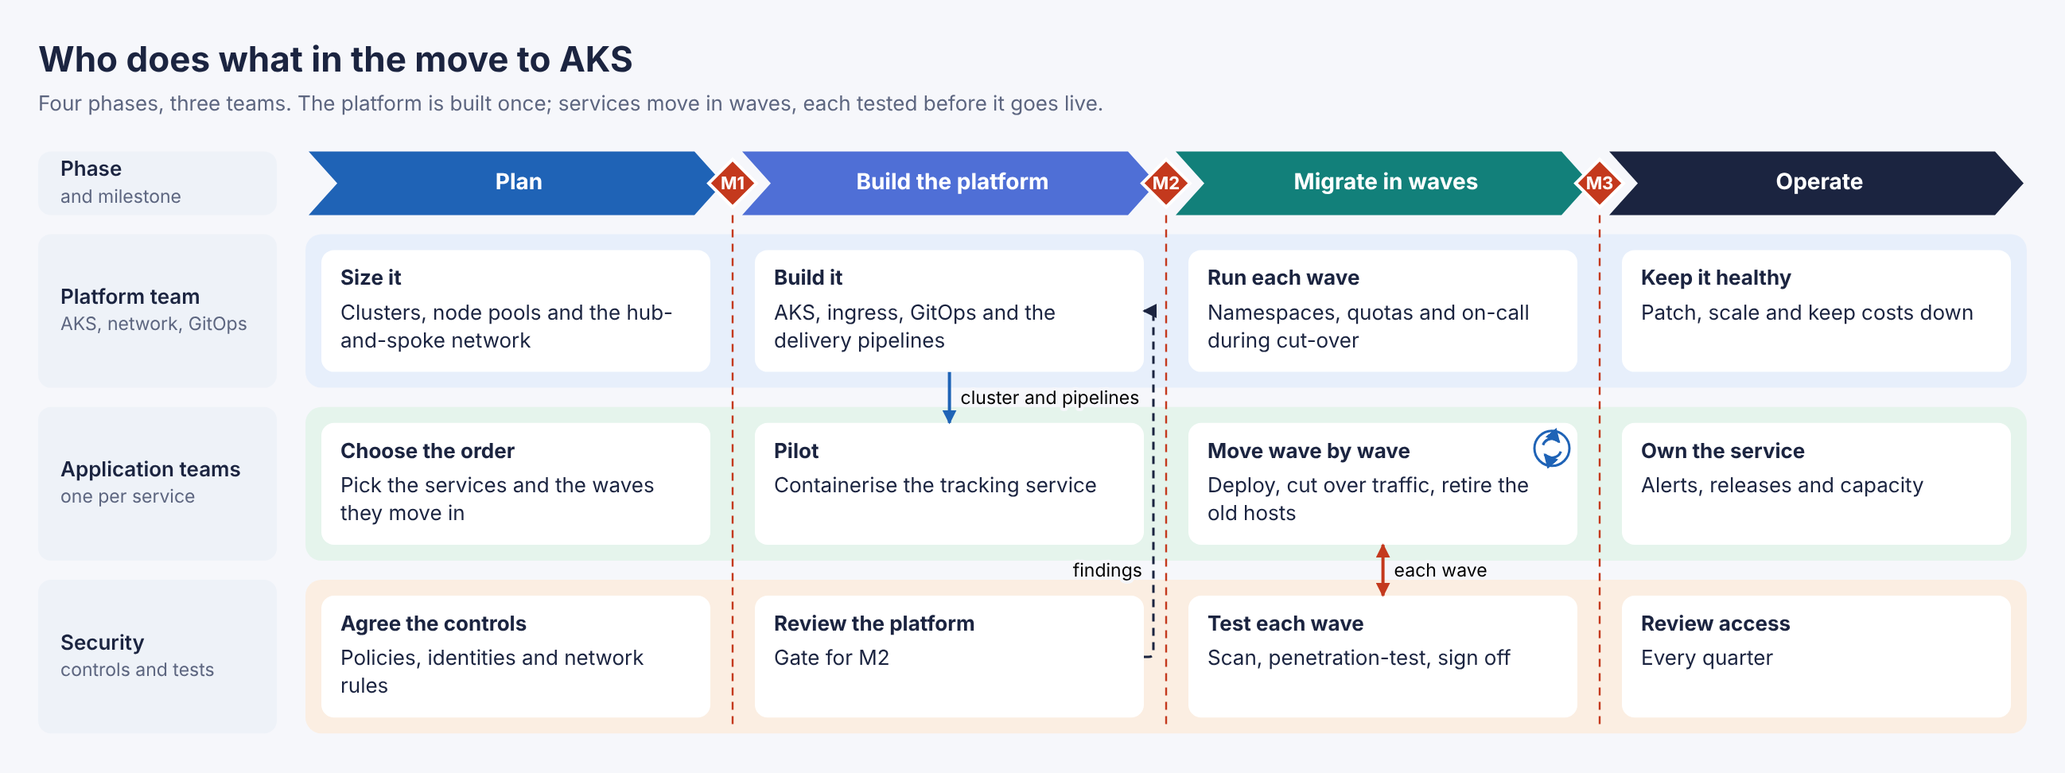
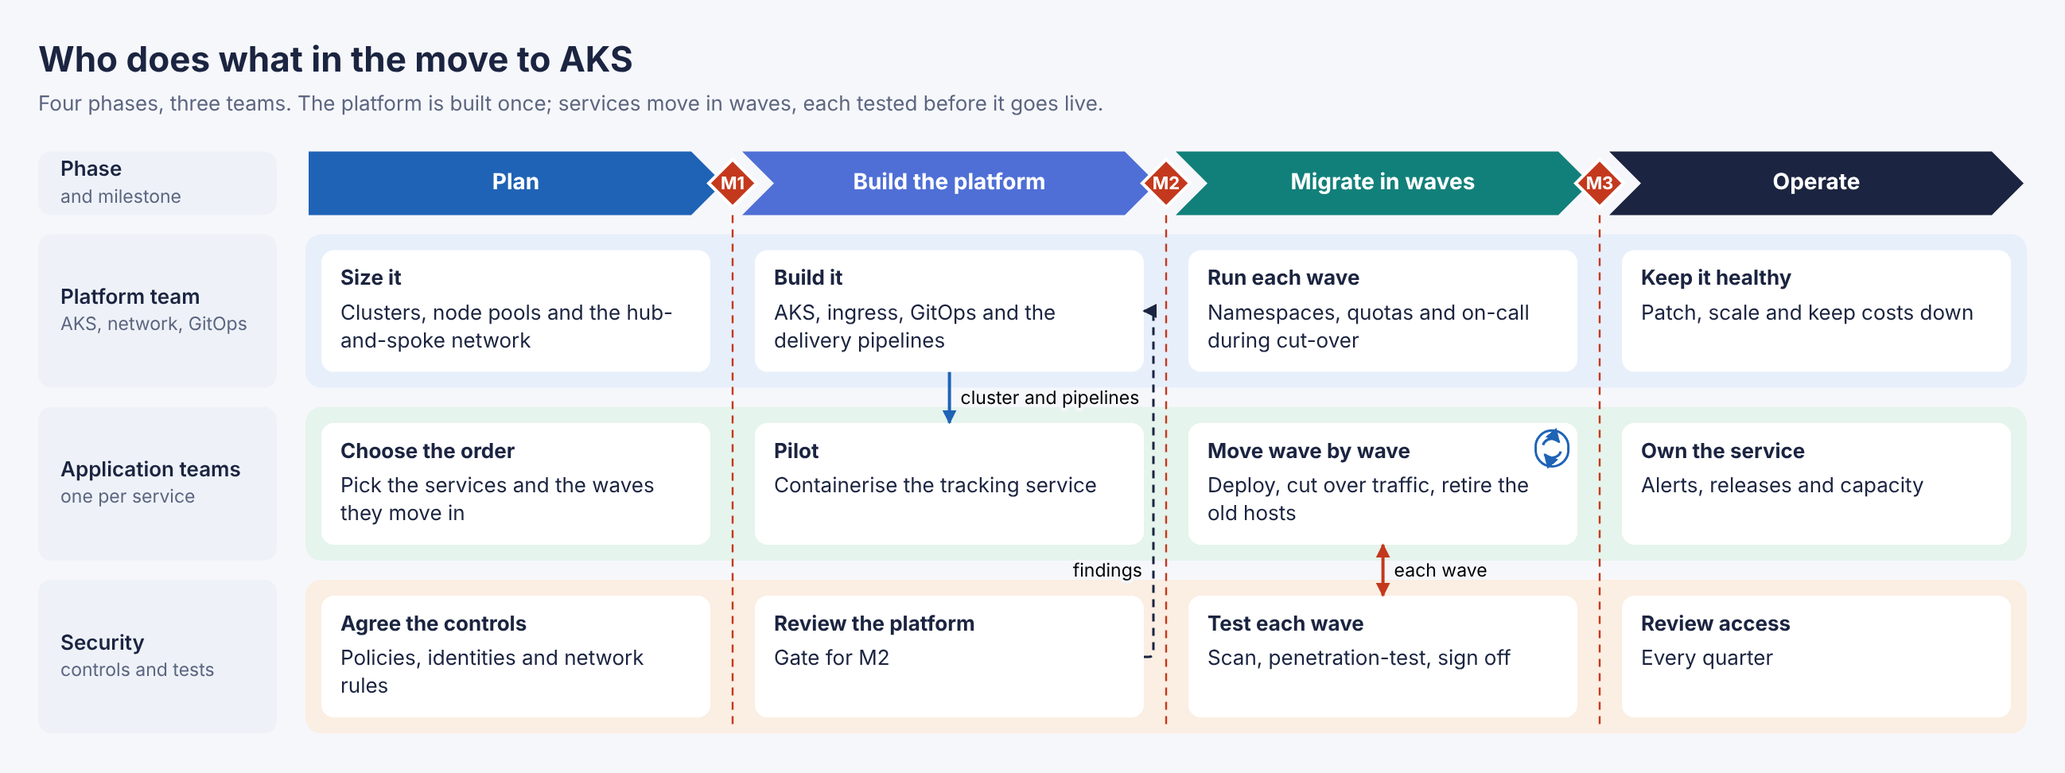
Page mode: a shape library
shape="…" on any element draws it as that shape: the browser lays it
out as a box, and its background and border become the shape's fill and
outline. Bases: rect, rounded, stadium, ellipse, circle, diamond,
hexagon, triangle, parallelogram, trapezoid, chevron, chevron-start,
block arrows, cylinder (and horizontal), document(s), note, callout,
cloud, manual-input, predefined, delay, off-page; BPMN task, subprocess,
start, event, end and gateway. Markers follow the base: gateway
exclusive|parallel|inclusive, event timer|message|signal|error,
end terminate, task loop|multi.

Defaults are zero-specificity CSS (an outline, centred content, BPMN
sizes for events and gateways). Round shapes take lines at the middle
of a side. The script's shape() uses the same library. The PoC's
clip-path classes .chevron and .diamond are gone.

diff --git a/skills/graphally/scripts/lib/shapes.js b/skills/graphally/scripts/lib/shapes.js
@@ -1,0 +1,199 @@
+// Copyright (c) 2026 Kamil Wilczyński (kwilcz). graphally Use-Only License: see LICENSE.
+// Shapes for page mode: <div shape="cylinder">, <i shape="gateway parallel">, and the
+// script's shape(). A shape is a base and optional markers. The base is a path over the
+// element's box; the browser lays the element out as a box, and the element's background
+// and border become the shape's fill and outline. Markers are drawn inside: a gateway's ×,
+// an event's clock or envelope, a task's loop. BPMN conventions follow the classic process
+// layout (render.js): thin circle start, thick end, double intermediate.
+
+const f = n => String(Math.round(n * 10) / 10);
+const poly = pts => `M${pts.map(([x, y]) => `${f(x)},${f(y)}`).join(' L')} Z`;
+const circle = (cx, cy, r) => `M${f(cx - r)},${f(cy)} A${f(r)},${f(r)} 0 1 1 ${f(cx + r)},${f(cy)} A${f(r)},${f(r)} 0 1 1 ${f(cx - r)},${f(cy)} Z`;
+
+// Block arrows: drawn along u (length) and v (width), then turned to their direction.
+const arrow = dir => ({ x, y, w, h }) => {
+  const along = dir === 'up' || dir === 'down', len = along ? h : w, wid = along ? w : h;
+  // Upright arrows hold their text across the shaft: a wider shaft, a shorter head.
+  const t = wid * (along ? 0.64 : 0.5), head = Math.min(wid * (along ? 0.5 : 0.9), len * (along ? 0.38 : 0.45)), a = (wid - t) / 2;
+  const pts = [[0, a], [len - head, a], [len - head, 0], [len, wid / 2], [len - head, wid], [len - head, a + t], [0, a + t]];
+  const map = ([u, v]) => (dir === 'right' ? [x + u, y + v] : dir === 'left' ? [x + len - u, y + v] : dir === 'down' ? [x + v, y + u] : [x + v, y + len - u]);
+  return poly(pts.map(map));
+};
+const stadium = ({ x, y, w, h }) => {
+  const r = Math.min(w, h) / 2;
+  return w >= h
+    ? `M${f(x + r)},${f(y)} H${f(x + w - r)} A${f(r)},${f(r)} 0 0 1 ${f(x + w - r)},${f(y + h)} H${f(x + r)} A${f(r)},${f(r)} 0 0 1 ${f(x + r)},${f(y)} Z`
+    : `M${f(x)},${f(y + r)} A${f(r)},${f(r)} 0 0 1 ${f(x + w)},${f(y + r)} V${f(y + h - r)} A${f(r)},${f(r)} 0 0 1 ${f(x)},${f(y + h - r)} Z`;
+};
+const roundRect = ({ x, y, w, h }, r) => {
+  r = Math.min(r, w / 2, h / 2);
+  return `M${f(x + r)},${f(y)} H${f(x + w - r)} Q${f(x + w)},${f(y)} ${f(x + w)},${f(y + r)} V${f(y + h - r)} Q${f(x + w)},${f(y + h)} ${f(x + w - r)},${f(y + h)} H${f(x + r)} Q${f(x)},${f(y + h)} ${f(x)},${f(y + h - r)} V${f(y + r)} Q${f(x)},${f(y)} ${f(x + r)},${f(y)} Z`;
+};
+const doc = ({ x, y, w, h }) => {
+  const a = Math.min(h * 0.12, 10);
+  return `M${f(x)},${f(y)} H${f(x + w)} V${f(y + h - a)} C${f(x + w * 0.75)},${f(y + h - 3 * a)} ${f(x + w * 0.25)},${f(y + h + a)} ${f(x)},${f(y + h - a)} Z`;
+};
+const ry = ({ w, h }) => Math.min(h * 0.12, w * 0.2, 10);
+const fold = ({ w, h }) => Math.min(14, w * 0.25, h * 0.3);
+
+// path(box) -> d. under(box) -> paths drawn behind, in the same fill. lines(box) -> strokes
+// over the fill (a cylinder's rim). round: lines meet it at the middle of a side.
+const BASES = {
+  rect: { path: b => roundRect(b, 0) },
+  rounded: { path: b => roundRect(b, 10) },
+  stadium: { path: stadium },
+  ellipse: { path: ({ x, y, w, h }) => `M${f(x)},${f(y + h / 2)} A${f(w / 2)},${f(h / 2)} 0 1 1 ${f(x + w)},${f(y + h / 2)} A${f(w / 2)},${f(h / 2)} 0 1 1 ${f(x)},${f(y + h / 2)} Z`, round: true },
+  circle: { path: ({ x, y, w, h }) => circle(x + w / 2, y + h / 2, Math.min(w, h) / 2), round: true },
+  diamond: { path: ({ x, y, w, h }) => poly([[x + w / 2, y], [x + w, y + h / 2], [x + w / 2, y + h], [x, y + h / 2]]), round: true },
+  hexagon: { path: ({ x, y, w, h }) => { const k = Math.min(h * 0.29, w / 4); return poly([[x + k, y], [x + w - k, y], [x + w, y + h / 2], [x + w - k, y + h], [x + k, y + h], [x, y + h / 2]]); } },
+  triangle: { path: ({ x, y, w, h }) => poly([[x + w / 2, y], [x + w, y + h], [x, y + h]]) },
+  parallelogram: { path: ({ x, y, w, h }) => { const k = Math.min(h * 0.35, w / 4); return poly([[x + k, y], [x + w, y], [x + w - k, y + h], [x, y + h]]); } },
+  trapezoid: { path: ({ x, y, w, h }) => { const k = Math.min(h * 0.35, w / 4); return poly([[x + k, y], [x + w - k, y], [x + w, y + h], [x, y + h]]); } },
+  chevron: { path: ({ x, y, w, h }) => { const k = Math.min(h / 2, w / 4, 20); return poly([[x, y], [x + w - k, y], [x + w, y + h / 2], [x + w - k, y + h], [x, y + h], [x + k, y + h / 2]]); } },
+  'chevron-start': { path: ({ x, y, w, h }) => { const k = Math.min(h / 2, w / 4, 20); return poly([[x, y], [x + w - k, y], [x + w, y + h / 2], [x + w - k, y + h], [x, y + h]]); } },
+  'arrow-right': { path: arrow('right') }, 'arrow-left': { path: arrow('left') },
+  'arrow-up': { path: arrow('up') }, 'arrow-down': { path: arrow('down') },
+  cylinder: {
+    path: b => { const { x, y, w, h } = b, r = ry(b); return `M${f(x)},${f(y + r)} A${f(w / 2)},${f(r)} 0 0 1 ${f(x + w)},${f(y + r)} V${f(y + h - r)} A${f(w / 2)},${f(r)} 0 0 1 ${f(x)},${f(y + h - r)} Z`; },
+    lines: b => { const { x, y, w } = b, r = ry(b); return [`M${f(x)},${f(y + r)} A${f(w / 2)},${f(r)} 0 0 0 ${f(x + w)},${f(y + r)}`]; },
+  },
+  'cylinder-h': {
+    path: b => { const { x, y, w, h } = b, r = Math.min(w * 0.12, h * 0.2, 10); return `M${f(x + r)},${f(y)} H${f(x + w - r)} A${f(r)},${f(h / 2)} 0 0 1 ${f(x + w - r)},${f(y + h)} H${f(x + r)} A${f(r)},${f(h / 2)} 0 0 1 ${f(x + r)},${f(y)} Z`; },
+    lines: b => { const { x, y, w, h } = b, r = Math.min(w * 0.12, h * 0.2, 10); return [`M${f(x + w - r)},${f(y)} A${f(r)},${f(h / 2)} 0 0 0 ${f(x + w - r)},${f(y + h)}`]; },
+  },
+  document: { path: doc },
+  documents: {
+    path: ({ x, y, w, h }) => doc({ x, y: y + 8, w: w - 8, h: h - 8 }),
+    under: ({ x, y, w, h }) => [doc({ x: x + 8, y, w: w - 8, h: h - 8 }), doc({ x: x + 4, y: y + 4, w: w - 8, h: h - 8 })],
+  },
+  note: {
+    path: b => { const { x, y, w, h } = b, k = fold(b); return poly([[x, y], [x + w - k, y], [x + w, y + k], [x + w, y + h], [x, y + h]]); },
+    lines: b => { const { x, y, w } = b, k = fold(b); return [`M${f(x + w - k)},${f(y)} V${f(y + k)} H${f(x + w)}`]; },
+  },
+  callout: {
+    path: ({ x, y, w, h }) => {
+      const t = Math.min(14, h * 0.25), bh = h - t, r = Math.min(8, bh / 2);
+      return `M${f(x + r)},${f(y)} H${f(x + w - r)} Q${f(x + w)},${f(y)} ${f(x + w)},${f(y + r)} V${f(y + bh - r)} Q${f(x + w)},${f(y + bh)} ${f(x + w - r)},${f(y + bh)} H${f(x + w * 0.34)} L${f(x + w * 0.14)},${f(y + h)} L${f(x + w * 0.2)},${f(y + bh)} H${f(x + r)} Q${f(x)},${f(y + bh)} ${f(x)},${f(y + bh - r)} V${f(y + r)} Q${f(x)},${f(y)} ${f(x + r)},${f(y)} Z`;
+    },
+  },
+  cloud: {
+    path: ({ x, y, w, h }) => {
+      const p = (u, v) => `${f(x + u * w)},${f(y + v * h)}`;
+      return `M${p(0.25, 0.88)} C${p(0.04, 0.88)} ${p(-0.01, 0.56)} ${p(0.17, 0.48)} C${p(0.12, 0.22)} ${p(0.36, 0.08)} ${p(0.5, 0.24)} C${p(0.58, 0.02)} ${p(0.9, 0.06)} ${p(0.85, 0.36)} C${p(1.03, 0.4)} ${p(1.03, 0.84)} ${p(0.8, 0.88)} Z`;
+    },
+  },
+  'manual-input': { path: ({ x, y, w, h }) => poly([[x, y + h * 0.28], [x + w, y], [x + w, y + h], [x, y + h]]) },
+  predefined: {
+    path: b => roundRect(b, 0),
+    lines: ({ x, y, w, h }) => { const k = Math.min(10, w / 10); return [`M${f(x + k)},${f(y)} V${f(y + h)} M${f(x + w - k)},${f(y)} V${f(y + h)}`]; },
+  },
+  delay: { path: ({ x, y, w, h }) => { const r = Math.min(h / 2, w / 2); return `M${f(x)},${f(y)} H${f(x + w - r)} A${f(r)},${f(h / 2)} 0 0 1 ${f(x + w - r)},${f(y + h)} H${f(x)} Z`; } },
+  'off-page': { path: ({ x, y, w, h }) => poly([[x, y], [x + w, y], [x + w, y + h * 0.68], [x + w / 2, y + h], [x, y + h * 0.68]]) },
+  // BPMN
+  task: { path: b => roundRect(b, 10) },
+  subprocess: { path: b => roundRect(b, 10), marks: ['subprocess'] },
+  start: { path: ({ x, y, w, h }) => circle(x + w / 2, y + h / 2, Math.min(w, h) / 2), round: true, event: 'start' },
+  event: { path: ({ x, y, w, h }) => circle(x + w / 2, y + h / 2, Math.min(w, h) / 2), round: true, event: 'event' },
+  end: { path: ({ x, y, w, h }) => circle(x + w / 2, y + h / 2, Math.min(w, h) / 2), round: true, event: 'end' },
+  gateway: { path: ({ x, y, w, h }) => poly([[x + w / 2, y], [x + w, y + h / 2], [x + w / 2, y + h], [x, y + h / 2]]), round: true, gateway: true },
+};
+const ALIASES = {
+  box: 'rect', process: 'rect', square: 'rect', pill: 'stadium', terminator: 'stadium', oval: 'ellipse',
+  decision: 'diamond', rhombus: 'diamond', io: 'parallelogram', data: 'parallelogram',
+  database: 'cylinder', db: 'cylinder', 'data-store': 'cylinder', queue: 'cylinder-h',
+  'data-object': 'note', 'folded': 'note', subroutine: 'predefined', 'multi-document': 'documents',
+  'start-event': 'start', 'end-event': 'end', 'intermediate': 'event', 'intermediate-event': 'event', activity: 'task',
+  'sub-process': 'subprocess', arrow: 'arrow-right', step: 'chevron-start',
+};
+const MARKS = ['exclusive', 'parallel', 'inclusive', 'timer', 'message', 'signal', 'error', 'terminate', 'loop', 'multi', 'subprocess'];
+
+export const SHAPE_NAMES = [...Object.keys(BASES), ...Object.keys(ALIASES)];
+export const MARK_NAMES = MARKS;
+
+// "gateway parallel" -> { base: 'gateway', marks: ['parallel'] }, or { error, suggest }.
+export function parseShape(text) {
+  const words = String(text || '').trim().toLowerCase().split(/\s+/).filter(Boolean);
+  const name = ALIASES[words[0]] || words[0];
+  if (!BASES[name]) return { error: words[0] || '(empty)', options: SHAPE_NAMES };
+  const marks = words.slice(1), bad = marks.find(k => !MARKS.includes(k));
+  if (bad) return { error: bad, options: MARKS };
+  return { base: name, marks: [...(BASES[name].marks || []), ...marks], round: !!BASES[name].round };
+}
+
+// SVG for one shape over box b. st: { fill, stroke, width, dash } as CSS values ('none' for
+// no fill or outline). The outline sits inside the box, as a CSS border does.
+export function drawShape(spec, b, st) {
+  const def = BASES[spec.base], h = st.stroke === 'none' ? 0 : st.width / 2;
+  const box = { x: b.x + h, y: b.y + h, w: Math.max(0, b.w - 2 * h), h: Math.max(0, b.h - 2 * h) };
+  const ink = st.stroke === 'none' ? 'var(--ink)' : st.stroke;
+  const paint = (d, fill = st.fill) => `<path d="${d}" style="fill: ${fill}; stroke: ${st.stroke}" stroke-width="${f(st.width)}"${st.dash ? ` stroke-dasharray="${st.dash}"` : ''}></path>`;
+  const line = (d, w = 1.5, fill = 'none') => `<path d="${d}" style="fill: ${fill}; stroke: ${ink}" stroke-width="${f(w)}" stroke-linecap="round" stroke-linejoin="round"></path>`;
+  const out = [...(def.under?.(box) || []).map(d => paint(d)), paint(def.path(box)), ...(def.lines?.(box) || []).map(d => line(d, Math.max(1, st.width || 1.5)))];
+  const cx = b.x + b.w / 2, cy = b.y + b.h / 2, r = Math.min(b.w, b.h) / 2;
+  if (def.event === 'event') out.push(line(circle(cx, cy, r - h - 3.5), Math.min(st.width || 1.5, 1.5)));
+  for (const k of spec.marks) {
+    if (def.gateway) {
+      const s = r * 0.3;
+      if (k === 'exclusive') out.push(line(`M${f(cx - s)},${f(cy - s)} L${f(cx + s)},${f(cy + s)} M${f(cx + s)},${f(cy - s)} L${f(cx - s)},${f(cy + s)}`, 2.6));
+      if (k === 'parallel') out.push(line(`M${f(cx - s * 1.25)},${f(cy)} H${f(cx + s * 1.25)} M${f(cx)},${f(cy - s * 1.25)} V${f(cy + s * 1.25)}`, 2.8));
+      if (k === 'inclusive') out.push(line(circle(cx, cy, s * 1.15), 2.4));
+    } else if (def.event) {
+      const g = r * 0.5, filled = def.event === 'end';
+      if (k === 'timer') {
+        out.push(line(circle(cx, cy, g), 1.3));
+        out.push(line(`M${f(cx)},${f(cy - g * 0.7)} V${f(cy)} L${f(cx + g * 0.5)},${f(cy + g * 0.25)}`, 1.3));
+      }
+      if (k === 'message') {
+        const w2 = g * 0.95, h2 = g * 0.65;
+        out.push(line(`M${f(cx - w2)},${f(cy - h2)} H${f(cx + w2)} V${f(cy + h2)} H${f(cx - w2)} Z`, 1.3, filled ? ink : 'none'));
+        out.push(`<path d="M${f(cx - w2)},${f(cy - h2)} L${f(cx)},${f(cy + h2 * 0.15)} L${f(cx + w2)},${f(cy - h2)}" style="fill: none; stroke: ${filled ? 'var(--card)' : ink}" stroke-width="1.3" stroke-linejoin="round"></path>`);
+      }
+      if (k === 'signal') out.push(line(poly([[cx, cy - g * 0.85], [cx + g * 0.85, cy + g * 0.6], [cx - g * 0.85, cy + g * 0.6]]), 1.3, filled ? ink : 'none'));
+      if (k === 'error') out.push(line(poly([[cx - g * 0.7, cy + g * 0.7], [cx - g * 0.3, cy - g * 0.7], [cx + g * 0.1, cy + g * 0.05], [cx + g * 0.7, cy - g * 0.7], [cx + g * 0.3, cy + g * 0.7], [cx - g * 0.1, cy - g * 0.05]]), 1.3, filled ? ink : 'none'));
+      if (k === 'terminate') out.push(line(circle(cx, cy, g * 0.9), 1, ink));
+    }
+  }
+  // Task markers sit side by side at the bottom middle.
+  const bottom = spec.marks.filter(k => ['loop', 'multi', 'subprocess'].includes(k) && !def.event && !def.gateway);
+  bottom.forEach((k, i) => {
+    const s = 12, mx = cx + (i - (bottom.length - 1) / 2) * (s + 6), my = b.y + b.h - h - s / 2 - 5;
+    if (k === 'subprocess') out.push(line(`M${f(mx - s / 2)},${f(my - s / 2)} H${f(mx + s / 2)} V${f(my + s / 2)} H${f(mx - s / 2)} Z M${f(mx - 3.5)},${f(my)} H${f(mx + 3.5)} M${f(mx)},${f(my - 3.5)} V${f(my + 3.5)}`, 1.2));
+    if (k === 'loop') out.push(line(`M${f(mx + 4.5)},${f(my + 3.5)} A5.5,5.5 0 1 0 ${f(mx - 4.5)},${f(my + 3.5)} M${f(mx - 4.5)},${f(my + 3.5)} l-0.5,-3.5 M${f(mx - 4.5)},${f(my + 3.5)} l3.3,-1`, 1.3));
+    if (k === 'multi') out.push(line(`M${f(mx - 4)},${f(my - 5)} V${f(my + 5)} M${f(mx)},${f(my - 5)} V${f(my + 5)} M${f(mx + 4)},${f(my - 5)} V${f(my + 5)}`, 1.5));
+  });
+  return out;
+}
+
+// Page-mode defaults, at zero specificity: any rule of the author wins. Every shape is a
+// box with an outline and centred content; events and gateways have their BPMN sizes.
+const any = names => names.map(n => `[shape~="${n}"]`).join(', ');
+export const SHAPE_CSS = `
+:where(.graphally-page [shape]) { border: 1.5px solid var(--ink); background: var(--card); display: grid; place-items: center; text-align: center; padding: 8px 12px; }
+:where(.graphally-page :is(${any(['start', 'start-event', 'event', 'intermediate', 'intermediate-event', 'end', 'end-event'])})) { width: 36px; height: 36px; padding: 0; }
+:where(.graphally-page :is(${any(['end', 'end-event'])})) { border-width: 3px; }
+:where(.graphally-page :is(${any(['gateway'])})) { width: 44px; height: 44px; padding: 0; }
+:where(.graphally-page :is(${any(['task', 'activity', 'subprocess', 'sub-process'])})) { padding: 10px 14px; min-height: 52px; }
+:where(.graphally-page :is(${any(['subprocess', 'sub-process'])})) { padding-bottom: 22px; }
+:where(.graphally-page :is(${any(['diamond', 'decision', 'rhombus'])})) { padding: 22px 30px; min-height: 64px; }
+:where(.graphally-page :is(${any(['circle'])})) { aspect-ratio: 1; padding: 10px; }
+:where(.graphally-page :is(${any(['ellipse', 'oval'])})) { padding: 12px 26px; }
+:where(.graphally-page :is(${any(['cylinder', 'database', 'db', 'data-store'])})) { padding: 22px 12px 14px; }
+:where(.graphally-page :is(${any(['cylinder-h', 'queue'])})) { padding: 8px 26px 8px 16px; }
+:where(.graphally-page :is(${any(['document', 'documents', 'multi-document'])})) { padding: 8px 12px 18px; }
+:where(.graphally-page :is(${any(['documents', 'multi-document'])})) { padding: 16px 20px 22px 12px; }
+:where(.graphally-page :is(${any(['note', 'data-object', 'folded'])})) { padding: 8px 22px 8px 12px; }
+:where(.graphally-page :is(${any(['callout'])})) { padding: 8px 12px 22px; }
+:where(.graphally-page :is(${any(['cloud'])})) { padding: 22px 30px 18px; }
+:where(.graphally-page :is(${any(['chevron', 'chevron-start', 'step'])})) { padding: 8px 30px; }
+:where(.graphally-page :is(${any(['hexagon', 'parallelogram', 'io', 'data', 'trapezoid'])})) { padding: 8px 28px; }
+:where(.graphally-page :is(${any(['triangle'])})) { padding: 30% 20% 8px; }
+:where(.graphally-page :is(${any(['predefined', 'subroutine'])})) { padding: 8px 22px; }
+:where(.graphally-page :is(${any(['delay'])})) { padding: 8px 26px 8px 12px; }
+:where(.graphally-page :is(${any(['manual-input'])})) { padding: 18px 12px 8px; }
+:where(.graphally-page :is(${any(['off-page'])})) { padding: 8px 12px 18px; }
+:where(.graphally-page :is(${any(['stadium', 'pill', 'terminator'])})) { padding: 8px 20px; }
+:where(.graphally-page :is(${any(['arrow', 'arrow-right', 'arrow-left'])})) { padding: 8px 34px 8px 14px; }
+:where(.graphally-page :is(${any(['arrow-left'])})) { padding: 8px 14px 8px 34px; }
+:where(.graphally-page :is(${any(['arrow-up', 'arrow-down'])})) { padding: 12px 24px 38px; }
+:where(.graphally-page :is(${any(['arrow-up'])})) { padding: 38px 24px 12px; }
+`;

diff --git a/skills/graphally/scripts/lib/page.js b/skills/graphally/scripts/lib/page.js
@@ -9,6 +9,7 @@ import { S, T } from './style.js';
 import { resolveIcon, symbolFor } from './icons.js';
 import { routeEdges } from './route.js';
 import { rounded } from './render.js';
+import { parseShape, drawShape, SHAPE_CSS } from './shapes.js';
 
 const fmt = n => String(Math.round(n * 10) / 10);
 const esc = s => String(s).replace(/&/g, '&amp;').replace(/</g, '&lt;').replace(/>/g, '&gt;').replace(/"/g, '&quot;');
@@ -32,8 +33,6 @@ const PAGE_CSS = `
 :where(.graphally-page .banner) { background: var(--ink); color: var(--card); border-radius: 6px; padding: 10px 16px; font-weight: 600; }
 :where(.graphally-page .muted) { color: var(--muted); } :where(.graphally-page .small) { font-size: 11.5px; }
 :where(.graphally-page .row) { display: flex; gap: 12px; align-items: center; } :where(.graphally-page .col) { display: flex; flex-direction: column; gap: 8px; }
-:where(.graphally-page .chevron) { clip-path: polygon(0 0, calc(100% - 18px) 0, 100% 50%, calc(100% - 18px) 100%, 0 100%, 18px 50%); padding-left: 28px; padding-right: 24px; }
-:where(.graphally-page .diamond) { clip-path: polygon(50% 0, 100% 50%, 50% 100%, 0 50%); display: grid; place-items: center; }
 :where(.graphally-page .circle) { border-radius: 50%; display: grid; place-items: center; }
 `;
 
@@ -43,7 +42,7 @@ export function compilePage(el, opts, m) {
   if (!document.getElementById('graphally-page-css')) {
     const st = document.createElement('style');
     st.id = 'graphally-page-css';
-    st.textContent = PAGE_CSS;
+    st.textContent = PAGE_CSS + SHAPE_CSS;
     document.head.appendChild(st);
   }
   const wAttr = el.getAttribute('width'), width = Number(wAttr) || 1200;
@@ -232,7 +231,15 @@ function build(root, el, id, scripts, opts, m, problems) {
     const rx = Math.min(rr.endsWith('%') ? Math.min(b.w, b.h) * parseFloat(rr) / 100 : parseFloat(rr) || 0, b.w / 2, b.h / 2);
     const uniform = bw.every(w => w === bw[0]) && bw[0] > 0;
     let me = null;
-    if (bg || uniform || bw.some(Boolean) || poly) {
+    // shape="…": the library draws the element's background and border as that shape.
+    const spec = e.hasAttribute('shape') ? parseShape(e.getAttribute('shape')) : null;
+    if (spec?.error) problems.push({ rule: 'unknown-shape', shape: spec.error, ...(closest(spec.error, spec.options) ? { suggest: closest(spec.error, spec.options) } : {}) });
+    if (spec && !spec.error) {
+      const st = cs.borderTopStyle;
+      out.push(...drawShape(spec, b, { fill: bg || 'none', stroke: bw[0] ? bc || 'var(--ink)' : 'none', width: bw[0], dash: st === 'dashed' ? '5 4' : st === 'dotted' ? '1.5 3' : '' }));
+      me = { e, b, painted: true, parent: parentBox, bg, round: spec.round, plain: false };
+      boxes.push(me);
+    } else if (bg || uniform || bw.some(Boolean) || poly) {
       const stroke = uniform ? ` style="fill: ${bg || 'none'}; stroke: ${bc}" stroke-width="${bw[0]}"${dashed}` : ` style="fill: ${bg || 'none'}"`;
       if (poly) out.push(`<polygon points="${poly.map(p => `${fmt(p.x)},${fmt(p.y)}`).join(' ')}"${stroke}></polygon>`);
       else if (uniform) { const h = bw[0] / 2; out.push(`<rect x="${fmt(b.x + h)}" y="${fmt(b.y + h)}" width="${fmt(b.w - bw[0])}" height="${fmt(b.h - bw[0])}" rx="${fmt(Math.max(0, rx - h))}"${stroke}></rect>`); }
@@ -308,10 +315,13 @@ function build(root, el, id, scripts, opts, m, problems) {
       const s = o2.size || 24;
       drawOut.push(`<use href="#${d.sym}" x="${fmt(d.p.x - s / 2)}" y="${fmt(d.p.y - s / 2)}" width="${s}" height="${s}"></use>`);
     } else if (d.kind === 'shape') {
-      const w = o2.w || o2.size || 24, h = o2.h || o2.size || w, { x, y } = d.p, fill = paintOf(toneOf(o2.fill)) || 'none', st = `style="fill: ${fill}; stroke: ${paintOf(toneOf(o2.stroke)) || color}" stroke-width="${o2.width || 1.5}"${o2.dashed ? ' stroke-dasharray="5 4"' : ''}`;
-      if (d.shape === 'circle') drawOut.push(`<ellipse cx="${fmt(x)}" cy="${fmt(y)}" rx="${fmt(w / 2)}" ry="${fmt(h / 2)}" ${st}></ellipse>`);
-      else if (d.shape === 'diamond') drawOut.push(`<polygon points="${fmt(x)},${fmt(y - h / 2)} ${fmt(x + w / 2)},${fmt(y)} ${fmt(x)},${fmt(y + h / 2)} ${fmt(x - w / 2)},${fmt(y)}" ${st}></polygon>`);
-      else drawOut.push(`<rect x="${fmt(x - w / 2)}" y="${fmt(y - h / 2)}" width="${fmt(w)}" height="${fmt(h)}" rx="${o2.r || 6}" ${st}></rect>`);
+      // The same library as shape="…"; BPMN events and gateways default to their sizes.
+      const spec = parseShape(d.shape);
+      if (spec.error) { problems.push({ rule: 'unknown-shape', shape: spec.error, ...(closest(spec.error, spec.options) ? { suggest: closest(spec.error, spec.options) } : {}) }); continue; }
+      const size = o2.size || (['start', 'event', 'end'].includes(spec.base) ? 36 : spec.base === 'gateway' ? 44 : 24);
+      const w = o2.w || size, h = o2.h || (o2.w ? w : size);
+      drawOut.push(...drawShape(spec, { x: d.p.x - w / 2, y: d.p.y - h / 2, w, h },
+        { fill: paintOf(toneOf(o2.fill || 'card')), stroke: paintOf(toneOf(o2.stroke || o2.color)) || 'var(--ink)', width: o2.width || (spec.base === 'end' ? 3 : 1.5), dash: o2.dashed ? '5 4' : '' }));
     }
   }
   check(texts, problems);

diff --git a/samples/page/diagram.html b/samples/page/diagram.html
@@ -4,7 +4,7 @@
   h1 { margin-bottom: 4px } .lede { color: var(--muted); margin-bottom: 20px }
   .lab { background: var(--wash); border-radius: 8px; padding: 0 14px; display: flex; flex-direction: column; justify-content: center; font-weight: 600 }
   .lab span { font-weight: 400; font-size: 11.5px; color: var(--muted) }
-  .phase { height: 40px; display: grid; place-items: center; color: #fff; font-weight: 700; font-size: 14px; margin: 0 -8px }
+  .phase { height: 40px; border: 0; color: #fff; font-weight: 700; font-size: 14px; margin: 0 -8px }
   .phase:first-of-type { margin-left: 0 }
   .ms { grid-column: 2 / -1; display: grid; grid-template-columns: subgrid; font-size: 11.5px; color: var(--muted) }
   .ms div { grid-column: span 1; text-align: right; margin-right: -64px; padding-right: 0 }
@@ -17,10 +17,10 @@
 <p class="lede">Four phases, three teams. The platform is built once; services move in waves, each tested before it goes live.</p>
 <div class="fig">
   <div class="lab">Phase<span>and milestone</span></div>
-  <div class="phase chevron" style="background: var(--woad)" id=p1>Plan</div>
-  <div class="phase chevron" style="background: #4f6fd6" id=p2>Build the platform</div>
-  <div class="phase chevron" style="background: #12807a" id=p3>Migrate in waves</div>
-  <div class="phase chevron" style="background: var(--ink)" id=p4>Operate</div>
+  <div class="phase" shape=chevron-start style="background: var(--woad)" id=p1>Plan</div>
+  <div class="phase" shape=chevron style="background: #4f6fd6" id=p2>Build the platform</div>
+  <div class="phase" shape=chevron style="background: #12807a" id=p3>Migrate in waves</div>
+  <div class="phase" shape=chevron style="background: var(--ink)" id=p4>Operate</div>
 
   <div class="lab">Platform team<span>AKS, network, GitOps</span></div>
   <div class="band plat">
